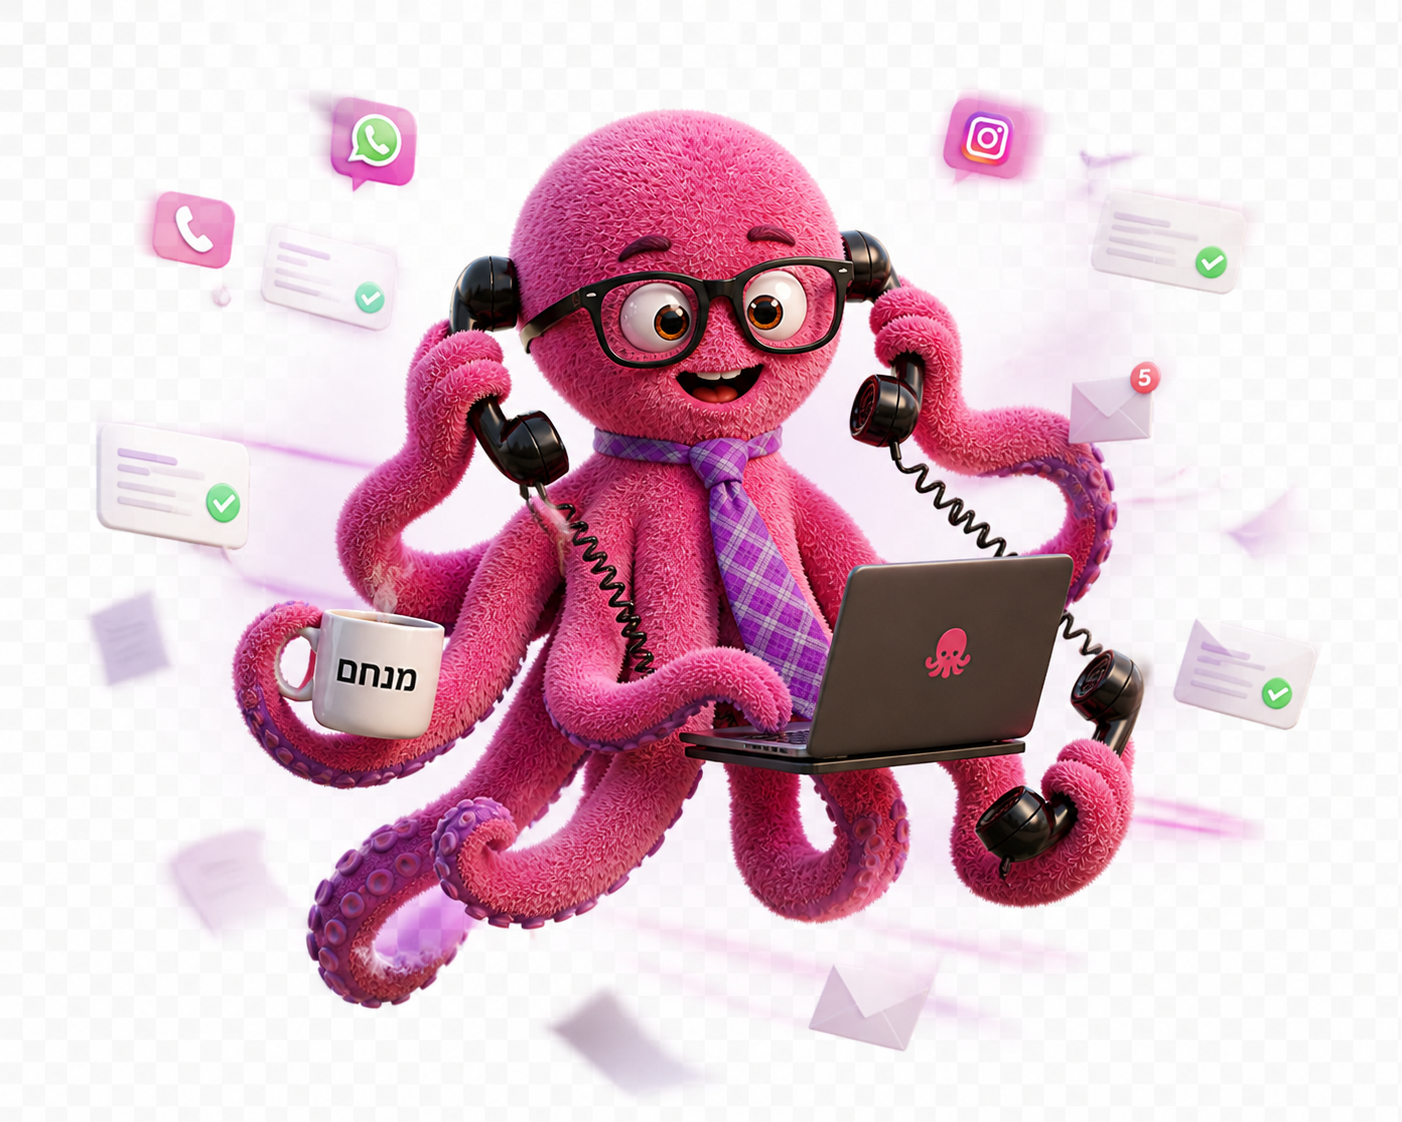
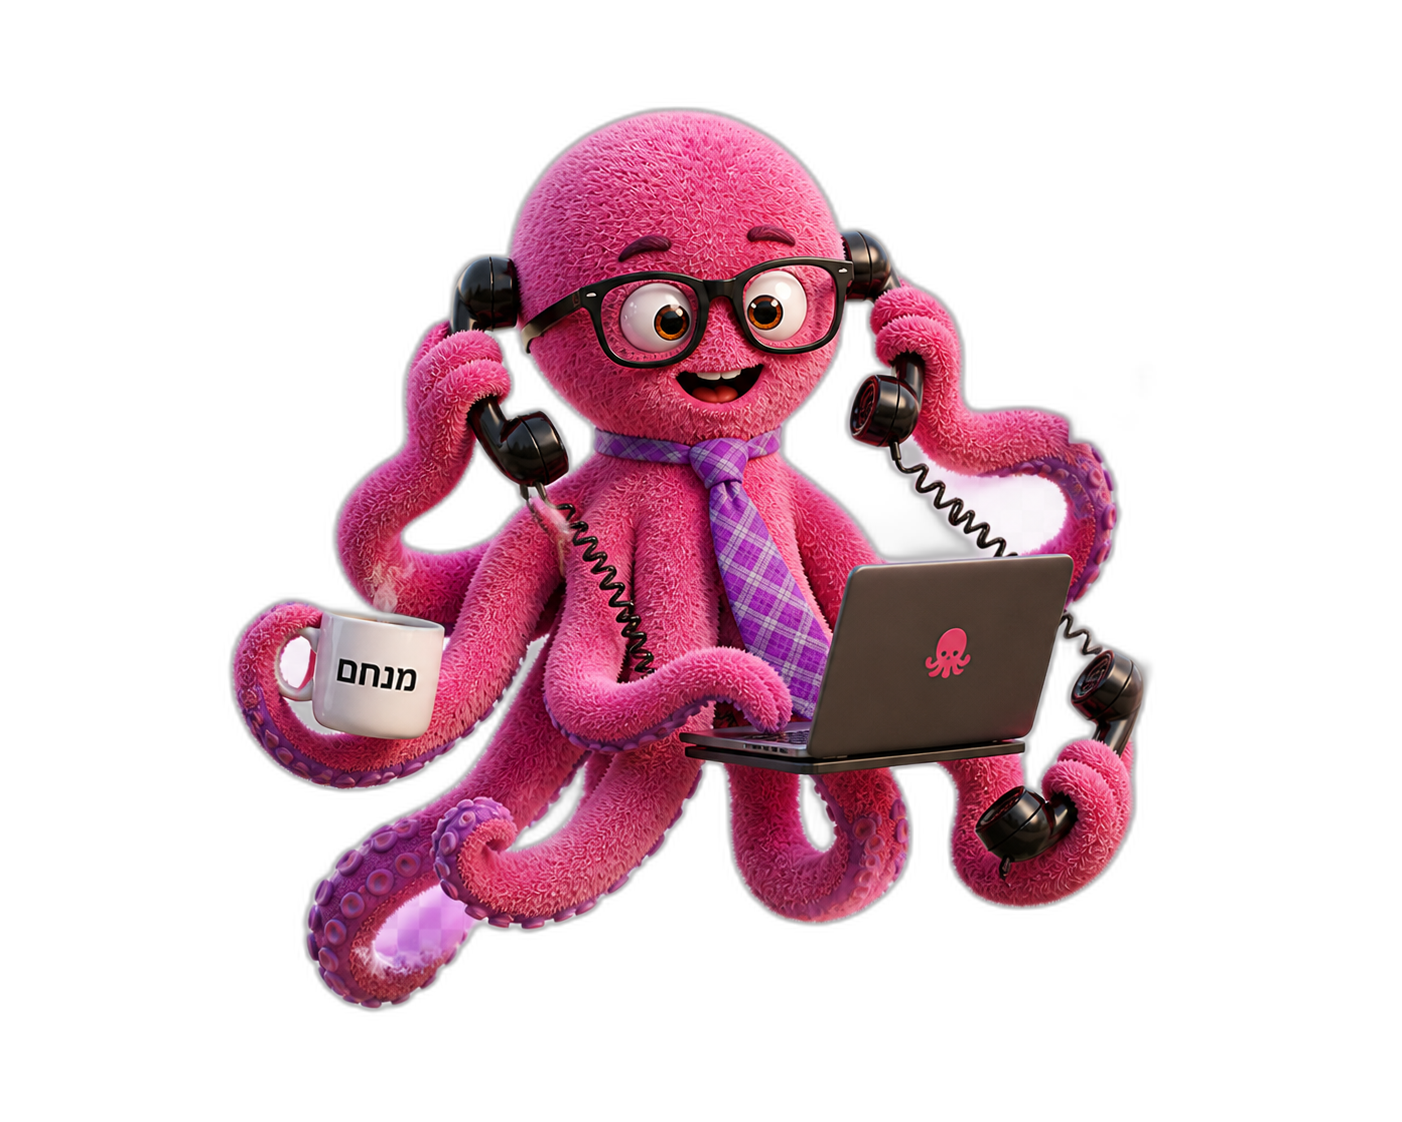
Transparent Menachem + independently floating notification orbs
- Removed image background via rembg (now RGBA, clean cutout)
- Added 6 floating notification orbs (WhatsApp, phone, Instagram, email, badges) around Menachem
- Each orb has its own duration, direction, and phase so they drift independently
- Added 3 'sent' check pills floating with rotation
- Mobile-tuned orb sizes

diff --git a/styles.css b/styles.css
@@ -148,7 +148,7 @@ button { font-family: inherit; }
 .hero-cta .arrow { display: inline-block; transition: transform 0.15s ease; }
 .hero-cta:hover .arrow { transform: translateX(-4px); }
 
-/* ===== Menachem floating ===== */
+/* ===== Menachem + floating orbits ===== */
 .hero-art {
   position: relative;
   display: flex; align-items: center; justify-content: center;
@@ -163,7 +163,7 @@ button { font-family: inherit; }
   animation: pulse 5.7s ease-in-out infinite;
 }
 .menachem {
-  position: relative; z-index: 1;
+  position: relative; z-index: 2;
   width: 100%; max-width: 520px;
   filter: drop-shadow(0 30px 40px rgba(0, 0, 0, 0.5));
   animation:
@@ -171,6 +171,60 @@ button { font-family: inherit; }
     float-x 7.1s ease-in-out infinite,
     float-rot 9.7s ease-in-out infinite;
   will-change: transform;
+}
+
+/* orbiting badges */
+.orbit {
+  position: absolute; inset: 0; z-index: 3;
+  pointer-events: none;
+}
+.orb {
+  position: absolute;
+  width: 52px; height: 52px;
+  border-radius: 50%;
+  background: #fff;
+  display: flex; align-items: center; justify-content: center;
+  box-shadow: 0 12px 28px -8px rgba(0, 0, 0, 0.45),
+              0 0 0 1px rgba(255, 255, 255, 0.06) inset;
+  animation: orb-float var(--d, 6s) ease-in-out infinite;
+  animation-delay: calc(var(--d, 6s) * -0.3);
+  --x: 0px;
+  --y: 0px;
+}
+.orb.small {
+  width: 34px; height: 34px;
+  color: #fff; font-weight: 800; font-size: 14px;
+  font-family: inherit;
+}
+.orb-1 { top: 6%;   right: 4%;  }
+.orb-2 { top: 8%;   left: 8%;   }
+.orb-3 { top: 38%;  right: -2%; }
+.orb-4 { bottom: 18%; left: -2%; }
+.orb-5 { top: 28%;  left: 18%;  }
+.orb-6 { bottom: 8%; right: 14%; }
+
+@keyframes orb-float {
+  0%, 100% { transform: translate(0, 0); }
+  50%      { transform: translate(var(--x), var(--y)); }
+}
+
+.check {
+  position: absolute;
+  font-weight: 700; font-size: 13px;
+  color: #22c55e;
+  background: #fff;
+  padding: 4px 10px;
+  border-radius: 999px;
+  box-shadow: 0 8px 18px -6px rgba(0, 0, 0, 0.35);
+  animation: check-float var(--d, 7s) ease-in-out infinite;
+  animation-delay: calc(var(--d, 7s) * -0.2);
+}
+.check-1 { top: 22%; left: 0%; }
+.check-2 { top: 60%; right: 4%; }
+.check-3 { bottom: 30%; right: 22%; }
+@keyframes check-float {
+  0%, 100% { transform: translate(0, 0) rotate(-2deg); opacity: 0.95; }
+  50%      { transform: translate(-6px, -10px) rotate(3deg); opacity: 1; }
 }
 @keyframes float-y {
   0%   { transform: translateY(0); }
@@ -200,7 +254,7 @@ button { font-family: inherit; }
   50%      { opacity: 1;   transform: scale(1.08); }
 }
 @media (prefers-reduced-motion: reduce) {
-  .menachem, .hero-art::before { animation: none; }
+  .menachem, .hero-art::before, .orb, .check { animation: none; }
 }
 
 /* ===== Sections below ===== */
@@ -365,7 +419,11 @@ footer {
   .hero h1 { font-size: clamp(32px, 9vw, 46px); margin-bottom: 12px; }
   .hero p.lead { font-size: 16px; margin: 0 auto 20px; max-width: 420px; }
   .hero-cta { padding: 14px 28px; font-size: 17px; }
-  .menachem { max-width: min(78vw, 340px); }
+  .menachem { max-width: min(72vw, 320px); }
+  .orb { width: 38px; height: 38px; }
+  .orb svg { width: 18px; height: 18px; }
+  .orb.small { width: 26px; height: 26px; font-size: 11px; }
+  .check { font-size: 11px; padding: 3px 8px; }
   .benefits { grid-template-columns: repeat(2, 1fr); }
   .steps { grid-template-columns: 1fr; gap: 32px; }
   section.block { padding: 70px 0; }

diff --git a/index.html b/index.html
@@ -44,6 +44,18 @@
         </div>
 
         <div class="hero-art">
+          <div class="orbit">
+            <!-- floating notification badges -->
+            <span class="orb orb-1" style="--d:6.4s;--x:-8px;--y:-14px"><svg viewBox="0 0 24 24" width="22" height="22" fill="#25D366"><path d="M12 2a10 10 0 0 0-8.5 15.2L2 22l4.9-1.5A10 10 0 1 0 12 2zm5.6 14.2c-.3.7-1.4 1.3-2 1.4-.5.1-1.2.1-1.9-.1-.4-.1-1-.3-1.7-.6-3-1.3-5-4.4-5.2-4.6-.2-.2-1.3-1.7-1.3-3.3 0-1.6.9-2.4 1.2-2.7.3-.3.7-.4.9-.4h.7c.2 0 .5 0 .8.6.3.7 1 2.4 1.1 2.5.1.2.1.4 0 .6-.1.2-.2.4-.4.6-.1.1-.3.3-.4.5-.1.1-.3.3-.1.6.2.3.8 1.3 1.7 2.1 1.2 1 2.2 1.4 2.5 1.5.3.1.5.1.7-.1.2-.2.8-.9 1-1.2.2-.3.4-.3.7-.2.3.1 1.9.9 2.2 1 .3.2.5.3.6.4.1.2.1.9-.2 1.6z"/></svg></span>
+            <span class="orb orb-2" style="--d:8.1s;--x:12px;--y:-10px"><svg viewBox="0 0 24 24" width="22" height="22" fill="#fff"><path d="M6.6 10.8a15.1 15.1 0 0 0 6.6 6.6l2.2-2.2a1 1 0 0 1 1-.25 11.4 11.4 0 0 0 3.6.6 1 1 0 0 1 1 1V20a1 1 0 0 1-1 1A17 17 0 0 1 3 4a1 1 0 0 1 1-1h3.5a1 1 0 0 1 1 1 11.4 11.4 0 0 0 .6 3.6 1 1 0 0 1-.25 1z"/></svg></span>
+            <span class="orb orb-3" style="--d:7.3s;--x:-14px;--y:8px;background:linear-gradient(135deg,#feda77,#f58529,#dd2a7b,#8134af)"><svg viewBox="0 0 24 24" width="20" height="20" fill="#fff"><path d="M12 2.2c3.2 0 3.6 0 4.8.1 1.2 0 1.9.3 2.3.4.6.2 1 .5 1.4.9.4.4.7.8.9 1.4.2.4.4 1.1.4 2.3.1 1.3.1 1.7.1 4.7s0 3.5-.1 4.8c0 1.2-.3 1.9-.4 2.3-.2.6-.5 1-.9 1.4-.4.4-.8.7-1.4.9-.4.2-1.1.4-2.3.4-1.3.1-1.7.1-4.8.1s-3.5 0-4.8-.1c-1.2 0-1.9-.3-2.3-.4-.6-.2-1-.5-1.4-.9-.4-.4-.7-.8-.9-1.4-.2-.4-.4-1.1-.4-2.3-.1-1.3-.1-1.7-.1-4.8s0-3.5.1-4.8c0-1.2.3-1.9.4-2.3.2-.6.5-1 .9-1.4.4-.4.8-.7 1.4-.9.4-.2 1.1-.4 2.3-.4 1.3-.1 1.7-.1 4.8-.1m0-2.2C8.7 0 8.3 0 7 .1 5.7.2 4.8.4 4 .7c-.8.3-1.5.7-2.2 1.4S.7 3.5.4 4.3c-.3.8-.5 1.7-.6 3C-.3 8.5-.3 8.9-.3 12.1s0 3.6.1 4.9c.1 1.3.3 2.2.6 3 .3.8.7 1.5 1.4 2.2.7.7 1.4 1.1 2.2 1.4.8.3 1.7.5 3 .6 1.3.1 1.7.1 4.9.1s3.6 0 4.9-.1c1.3-.1 2.2-.3 3-.6.8-.3 1.5-.7 2.2-1.4.7-.7 1.1-1.4 1.4-2.2.3-.8.5-1.7.6-3 .1-1.3.1-1.7.1-4.9s0-3.6-.1-4.9c-.1-1.3-.3-2.2-.6-3-.3-.8-.7-1.5-1.4-2.2-.7-.7-1.4-1.1-2.2-1.4-.8-.3-1.7-.5-3-.6C15.6 0 15.2 0 12 0z"/><circle cx="12" cy="12" r="3.5" fill="none" stroke="#fff" stroke-width="2"/><circle cx="18" cy="6" r="1.3"/></svg></span>
+            <span class="orb orb-4" style="--d:5.9s;--x:10px;--y:14px;background:#fff"><svg viewBox="0 0 24 24" width="20" height="20" fill="#ec4c6a"><path d="M20 4H4a2 2 0 0 0-2 2v12a2 2 0 0 0 2 2h16a2 2 0 0 0 2-2V6a2 2 0 0 0-2-2zm0 4-8 5-8-5V6l8 5 8-5v2z"/></svg></span>
+            <span class="orb orb-5 small" style="--d:4.9s;--x:-6px;--y:-10px;background:#22c55e">5</span>
+            <span class="orb orb-6 small" style="--d:6.7s;--x:8px;--y:6px;background:#ec4c6a">12</span>
+            <span class="check check-1" style="--d:7.7s">✓</span>
+            <span class="check check-2" style="--d:9.3s">✓✓</span>
+            <span class="check check-3" style="--d:8.4s">✓</span>
+          </div>
           <img class="menachem" src="assets/img/menachem.png" alt="מנחם — הסוכן הקולי של פלואי" />
         </div>
       </div>
